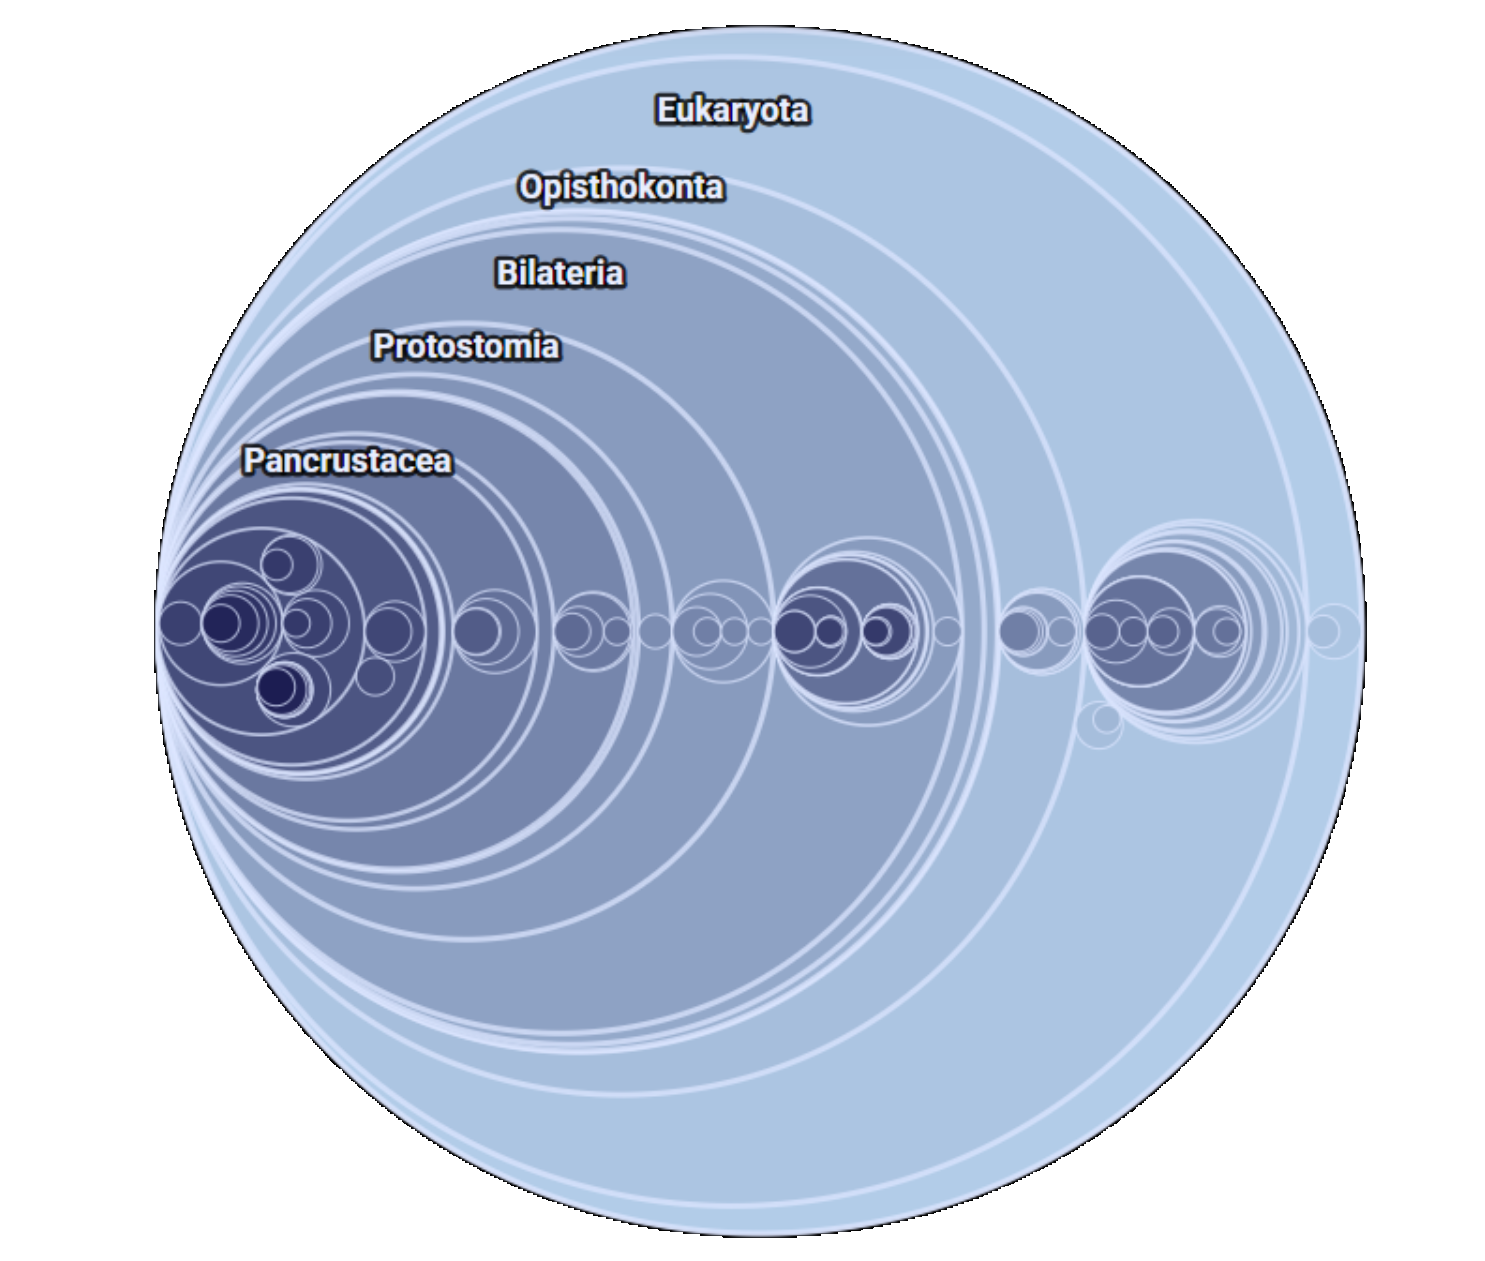
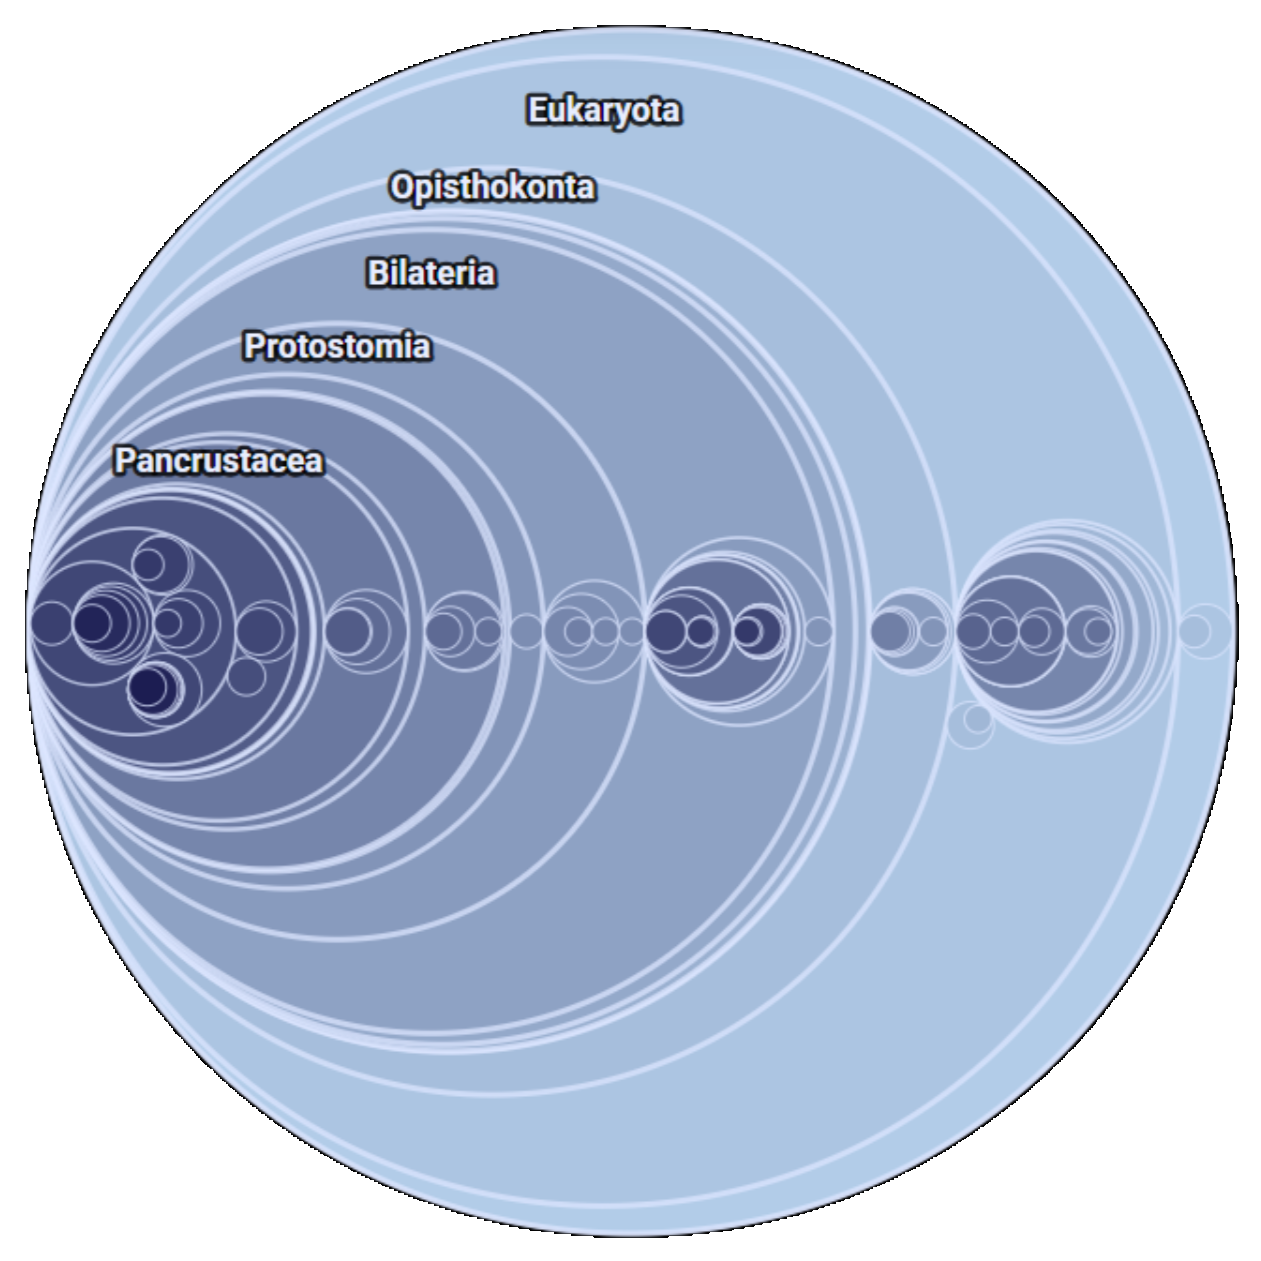
Refine landing tree artwork sizing across breakpoints
- Update landing hero art CSS to use max-width/max-height constraints
- Adjust desktop and mobile positioning for better on-screen fit
- Refresh landing tree background image and rebuilt dist asset references

diff --git a/dist/index.html b/dist/index.html
@@ -26,8 +26,8 @@
     
     <link rel="preconnect" href="https://fonts.googleapis.com">
     <link rel="preconnect" href="https://fonts.gstatic.com" crossorigin>
-    <script type="module" crossorigin src="/assets/index-0zJxUHAQ.js"></script>
-    <link rel="stylesheet" crossorigin href="/assets/index-CYmND_xc.css">
+    <script type="module" crossorigin src="/assets/index-B_HO3qpz.js"></script>
+    <link rel="stylesheet" crossorigin href="/assets/index-Dw9pTdrv.css">
   </head>
   <body>
     <div id="root"></div>

diff --git a/src/styles/landing.css b/src/styles/landing.css
@@ -20,15 +20,16 @@
   display: flex;
   align-items: center;
   justify-content: flex-end;
+  padding-right: clamp(1rem, 4vw, 4rem);
   pointer-events: none;
   z-index: 0;
 }
 
 .landing-art-image {
-  width: min(76vw, 960px);
-  max-width: none;
+  width: auto;
+  max-width: 66vw;
+  max-height: 86vh;
   height: auto;
-  margin-right: -10vw;
   opacity: 0.72;
   filter: drop-shadow(0 0 42px rgba(173, 206, 255, 0.2));
   transform: translateY(2vh);

diff --git a/src/styles/responsive.css b/src/styles/responsive.css
@@ -242,8 +242,8 @@
     }
 
     .landing-art-image {
-      width: min(115vw, 760px);
-      margin-right: -32vw;
+      max-width: 92vw;
+      max-height: 44vh;
       opacity: 0.5;
       transform: translateY(8vh);
     }
